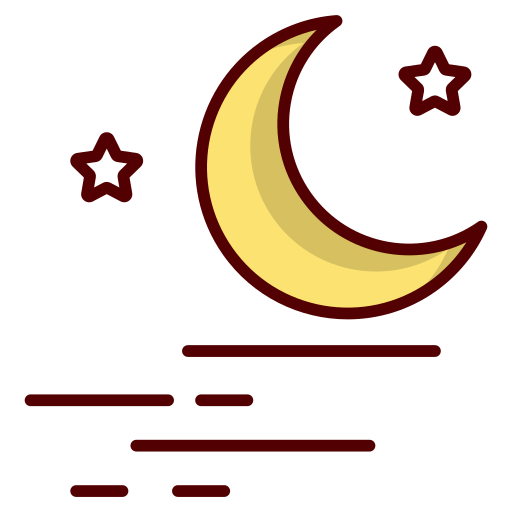
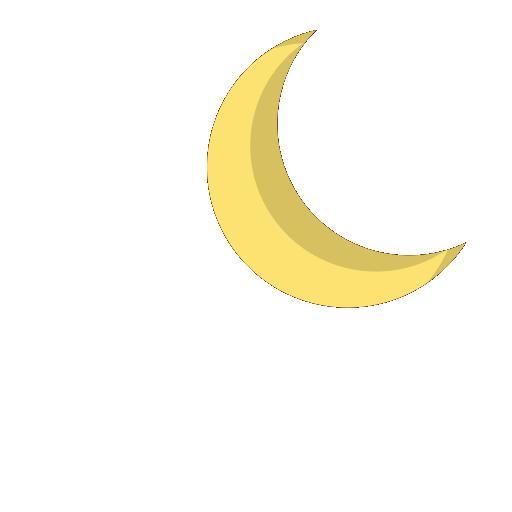
Completed the status Imgs
Added the logic for Condenos
Added Images for status's
Updates Status.txt

diff --git a/script.js b/script.js
@@ -100,8 +100,9 @@ document.addEventListener('DOMContentLoaded', function() {
         date = date.replace(/\b0/g, '');
         cityDate.innerHTML = date;
 
+        let condition = data.current.condition.text;
         currentTemp.innerHTML = `${data.current.temp_c} C`;
-        weatherStatus.innerHTML = data.current.condition.text;
+        weatherStatus.innerHTML = condition;
 
         let windDataDir = data.current.wind_dir;
         windDiraction(windDataDir);
@@ -112,6 +113,7 @@ document.addEventListener('DOMContentLoaded', function() {
         uvLight.innerHTML = `UV Light: ${data.current.uv}`;
         // Images
         dayNightIdentifier(time);
+        statusImgHandler(condition);
         
     }
 
@@ -176,6 +178,31 @@ document.addEventListener('DOMContentLoaded', function() {
             console.log('Error With Wind Directions')
         }
     }
+    function statusImgHandler(condition){
+        const conditions = {
+            'Clear': { path: 'imges/status/clear.png', alt: 'Clear Wehter Icon'},
+            'Sunny': { path: 'imges/status/sunny.png', alt: 'Sunny Icon'},
+            'Overcast': { path: 'imges/status/overcast.png', alt: 'Overcast icon'},
+            'Patchy rain nearby' : { path: 'imges/status/Patchy rain nearby.png', alt: 'Patchy rain nearby icon'},
+            'Light rain': { path: 'imges/status/light-rain.png', alt: 'Light Rain icon'},
+            'Light rain shower': { path: 'imges/status/light rain shower.png', alt: 'light rain shower icon'},
+            'Cloudy': { path: 'imges/status/cloudy.png', alt: 'Cloudy Icon'},
+            'Partly cloudy': {path: 'imges/status/partly-cloudy.png', alt: 'partly Cloudy Icon'},
+            'Partly Cloudy': {path: 'imges/status/partly-cloudy.png', alt: 'partly Cloudy Icon'},
+            'Mist': { path: 'imges/status/mist.png', alt: 'Mist icon'},
+            'Fog': { path: 'imges/status/fog.png', alt: 'Fog icon'}
+        };
+
+        let info = conditions[condition];
+        if (info){
+            weatherStatusImg.setAttribute('src', info.path);
+            weatherStatusImg.setAttribute('alt', info.alt);
+        } else {
+            weatherStatusImg.setAttribute('src', conditions.Clear.path);
+            weatherStatusImg.setAttribute('alt', 'Status Icon Not Found!');
+        }
+    }
+
 })
 
 

diff --git a/index.html b/index.html
@@ -76,7 +76,7 @@
                     <div>
                         <p id="current-temp"></p>
                         <div>
-                            <img src="imges/status/cloudy.png" id="weather-status-img">
+                            <img id="weather-status-img">
                             <p id="weather-status"></p>
                         </div>
                     </div>
